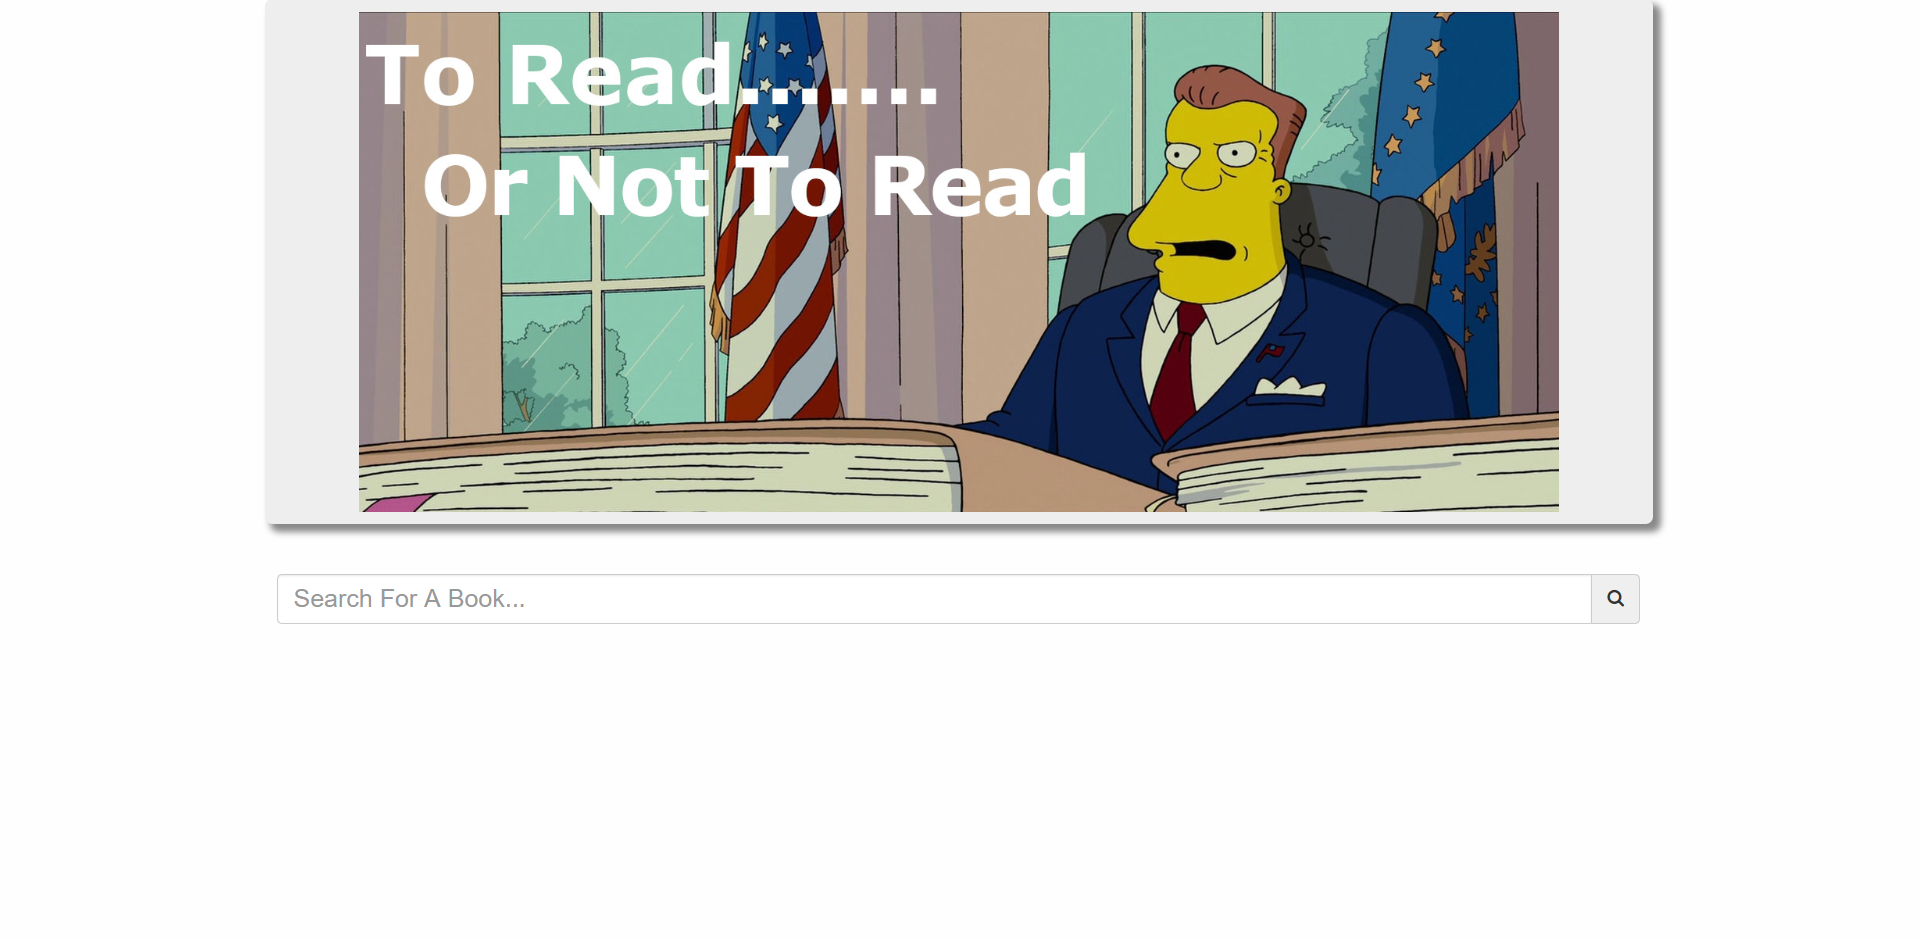
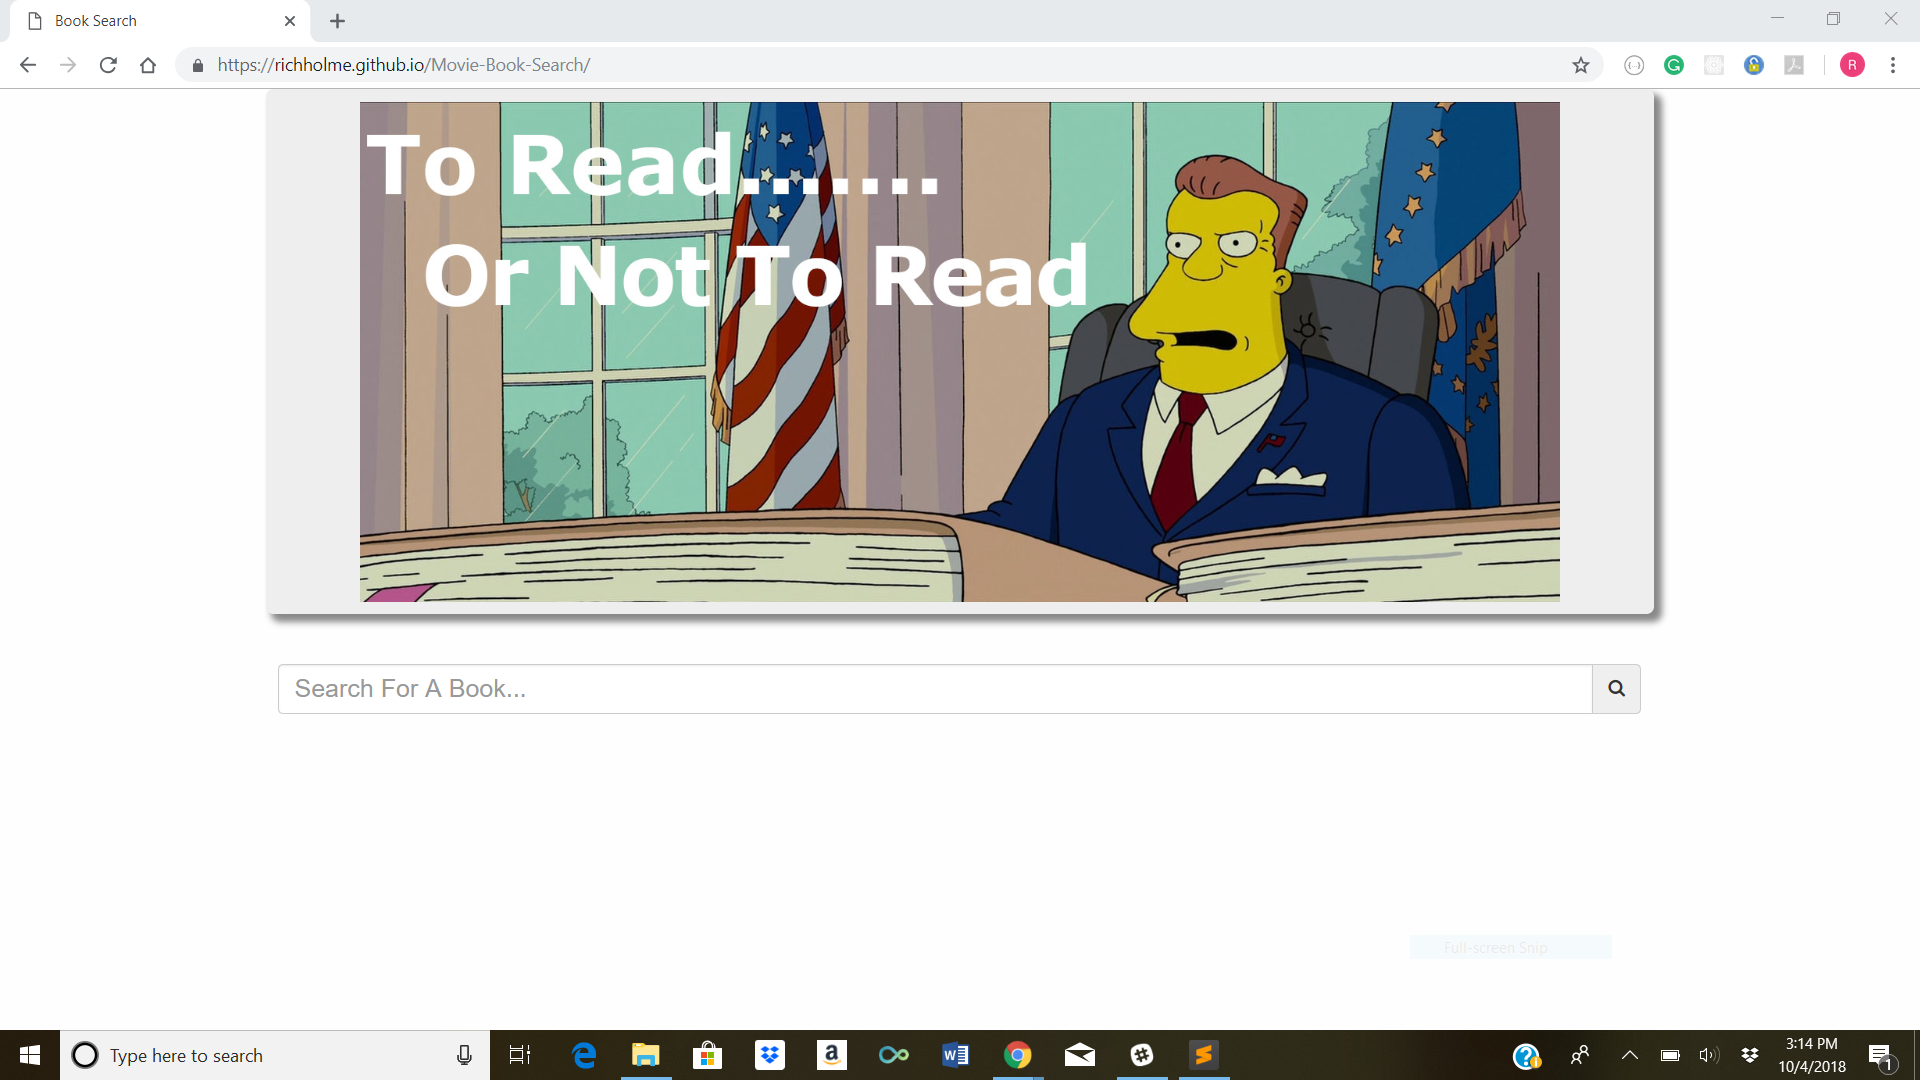
image fix

diff --git a/index.html b/index.html
@@ -105,7 +105,7 @@
 
 		.bigProject{
 			height: 275px;
-			width: 510px;
+			width: 505px;
 			/*border-radius: 25%;*/
 			z-index: -1;
 			position: absolute;
@@ -142,7 +142,7 @@
 					<div class="movie">
 						<!-- cowboy -->
 						<!-- <img class="bigProject" src="http://simpsonswiki.com/w/images/0/01/Springfield_Library.png" /> -->
-						<img class="bigProject" src="m.png" />
+						<img class="bigProject" src="movie.png" />
 
 						<img class="desktop" src="desktop.png">
 						<!-- <h3>Wild West Hangman</h3> -->
